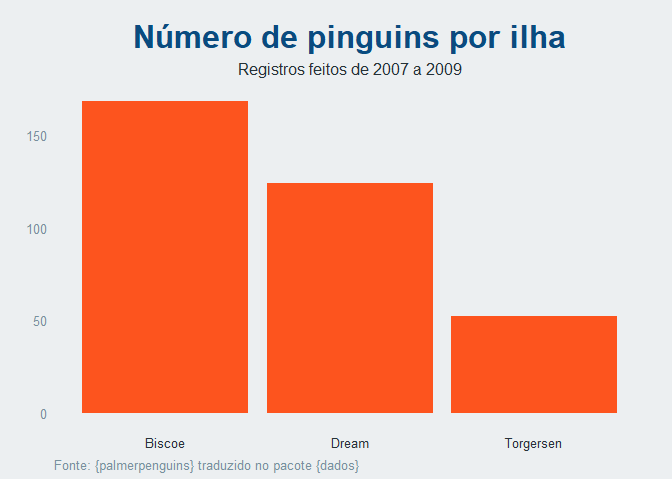
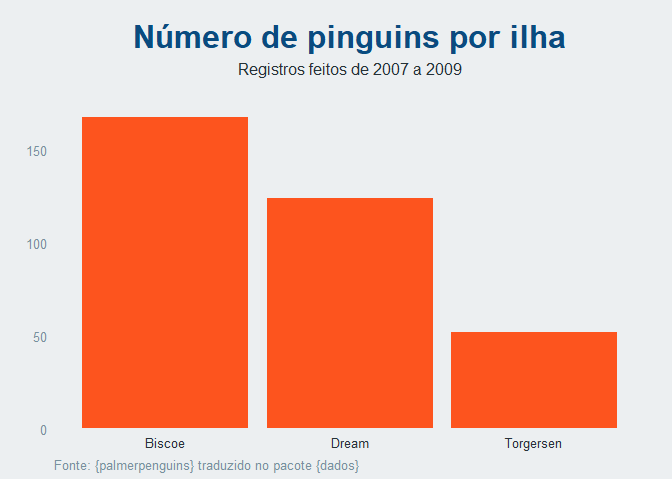
readme - eixos

diff --git a/README.md b/README.md
@@ -45,7 +45,9 @@ p1 <- ggplot(pinguins_grupos, aes(x = ilha, y = n)) +
     subtitle = "Registros feitos de 2007 a 2009",
     caption = "Fonte: {palmerpenguins} traduzido no pacote {dados}"
   )+
+  scale_y_continuous(expand = expansion(mult = c(0,0.1)))+
   tema_poder360()
+
 p1
 ```
 
